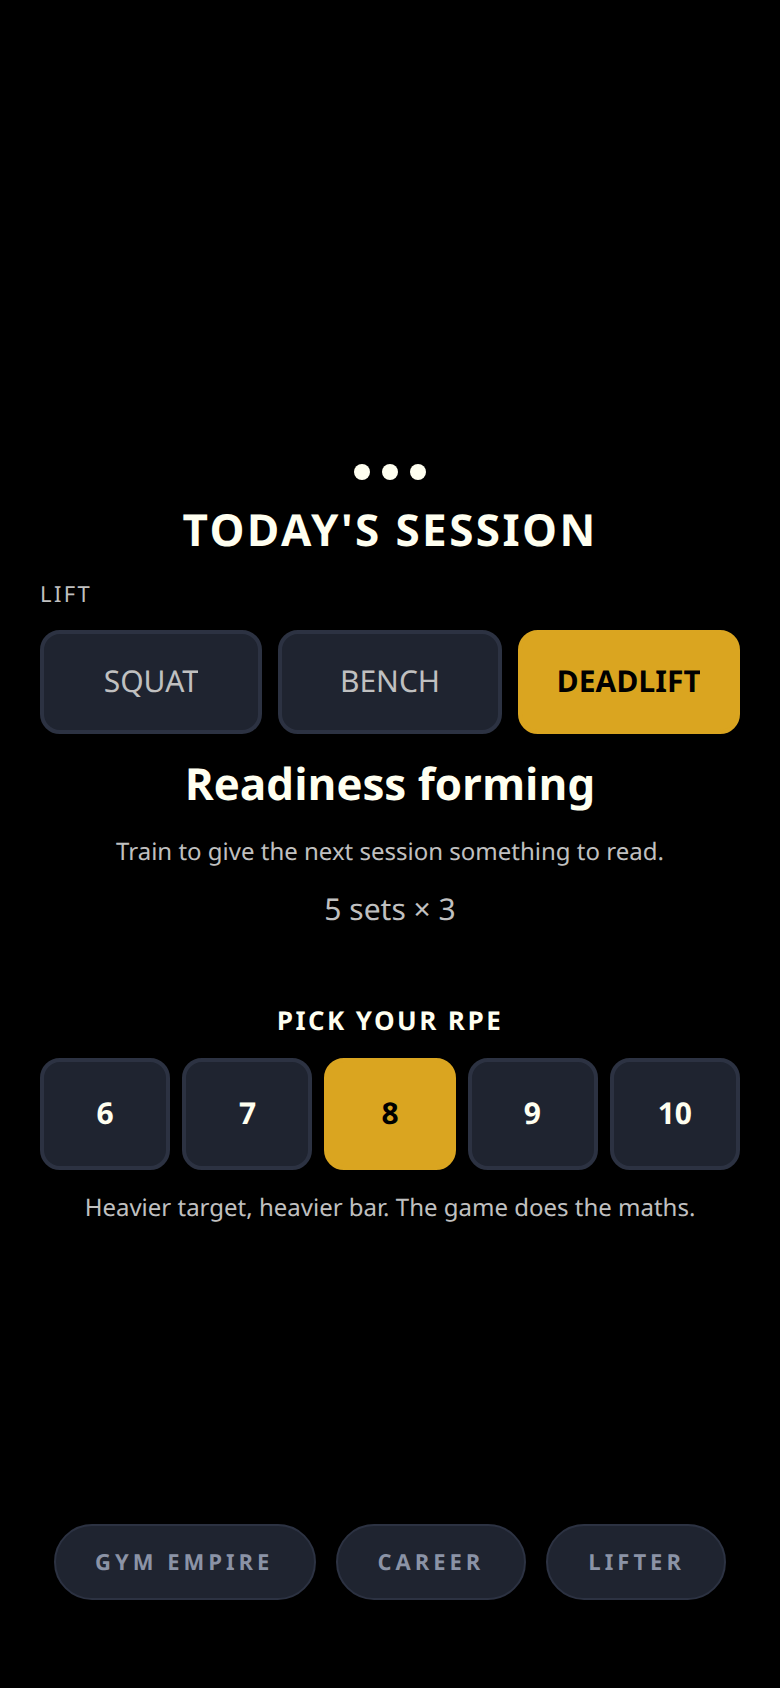
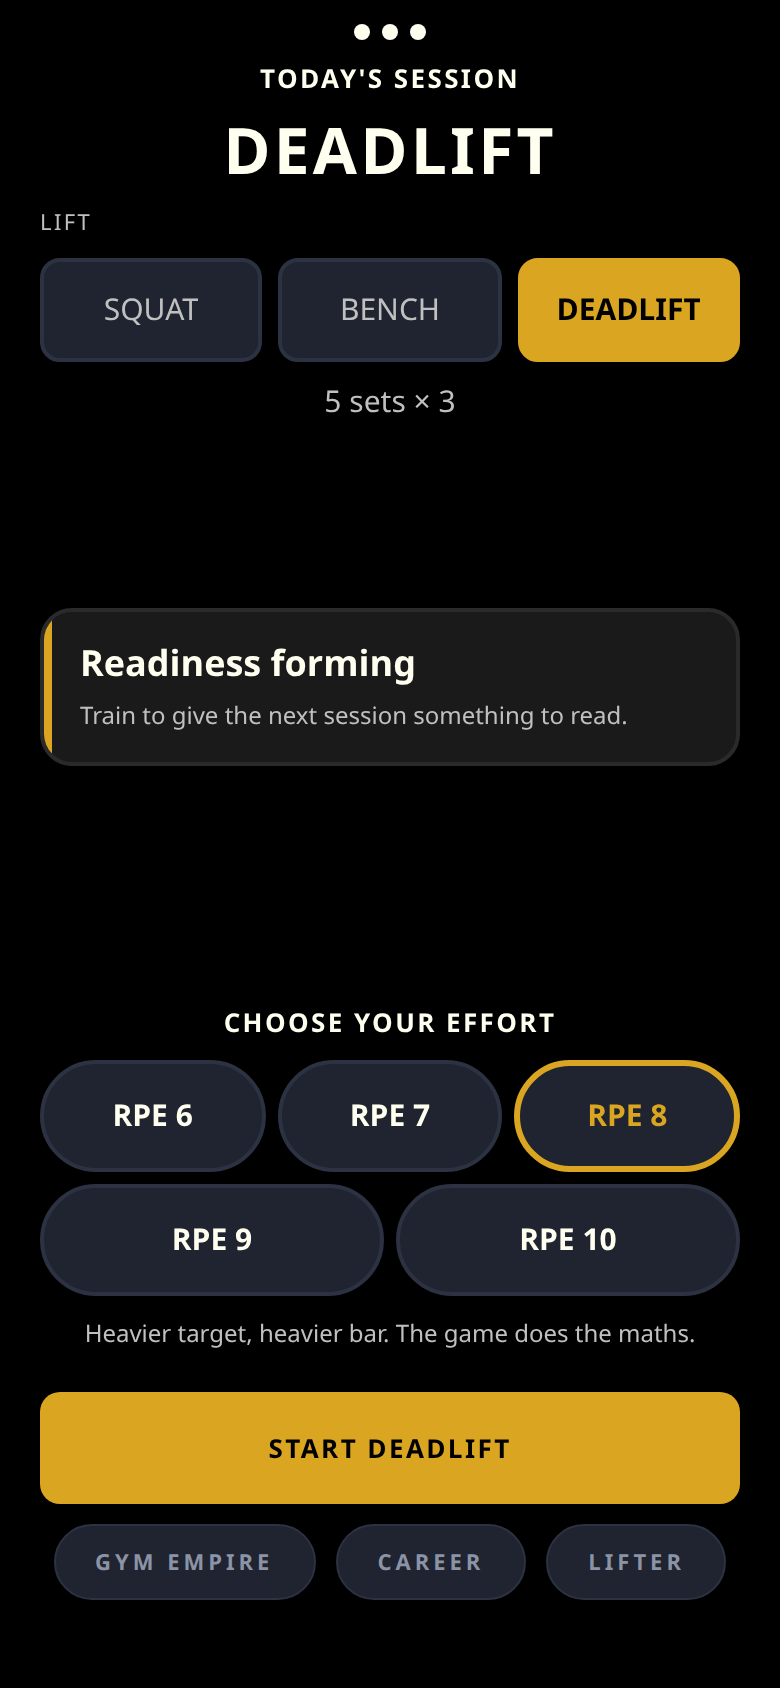
SF-TWL-SESSION-A-TRAINING-FIT-01: Screen 03 evidence and nav clearance
Keep START above the shell nav overlay. Recapture 375/390/430: no overflow,
no check-in, live squat still starts from an RPE tap.

diff --git a/src/game/sessionTuning.ts b/src/game/sessionTuning.ts
@@ -518,6 +518,12 @@ export const SESSION_LAYOUT = Object.freeze({
   BUTTON_FONT: 13,
   /** Full-width primary on the opening decision. */
   START_BUTTON_HEIGHT: 56,
+  /**
+   * Bottom inset so the opening START is not under the shell nav overlay.
+   * Matches SHELL_LAYOUT.NAV_BOTTOM_INSET + NAV_HEIGHT + NAV_GAP (44 + 38 + 10).
+   * Restated here so session screens do not import the shell.
+   */
+  NAV_CLEARANCE: 92,
 
   /** Close-out stat rows. */
   STAT_ROW_GAP: 18,

diff --git a/src/session/BriefingView.tsx b/src/session/BriefingView.tsx
@@ -229,7 +229,7 @@ const styles = StyleSheet.create({
     justifyContent: 'space-between',
     paddingHorizontal: L.SCREEN_PAD,
     paddingTop: L.SAFE_AREA_FALLBACK,
-    paddingBottom: L.SAFE_AREA_FALLBACK,
+    paddingBottom: L.NAV_CLEARANCE,
     gap: L.ROW_GAP,
     width: '100%',
   },
